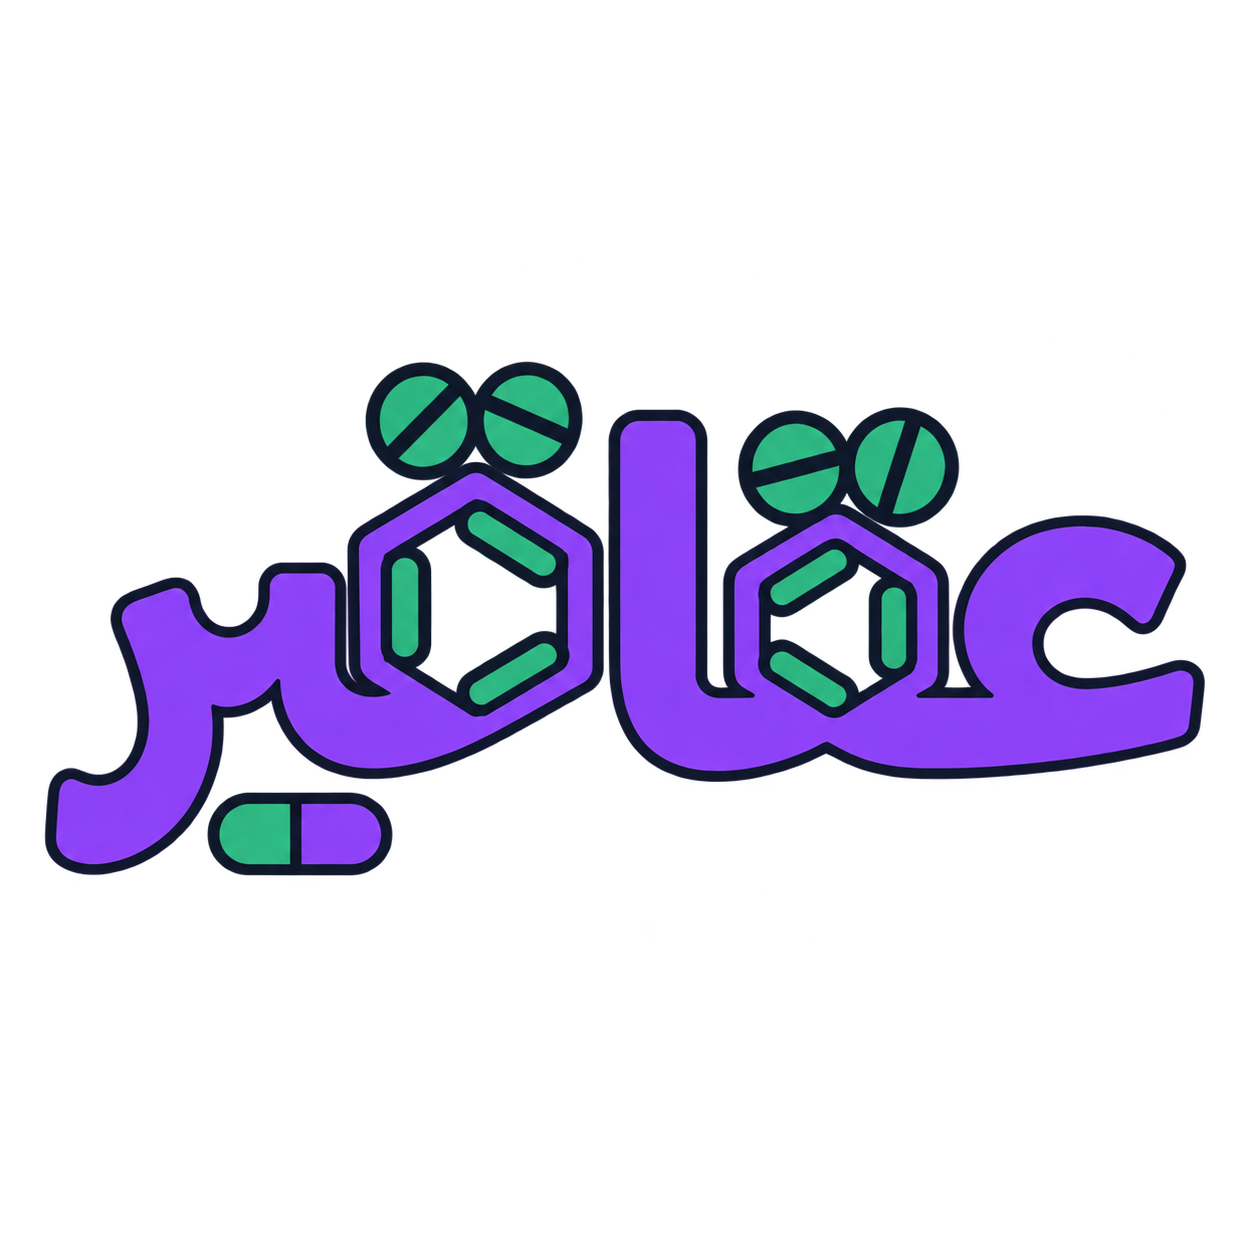
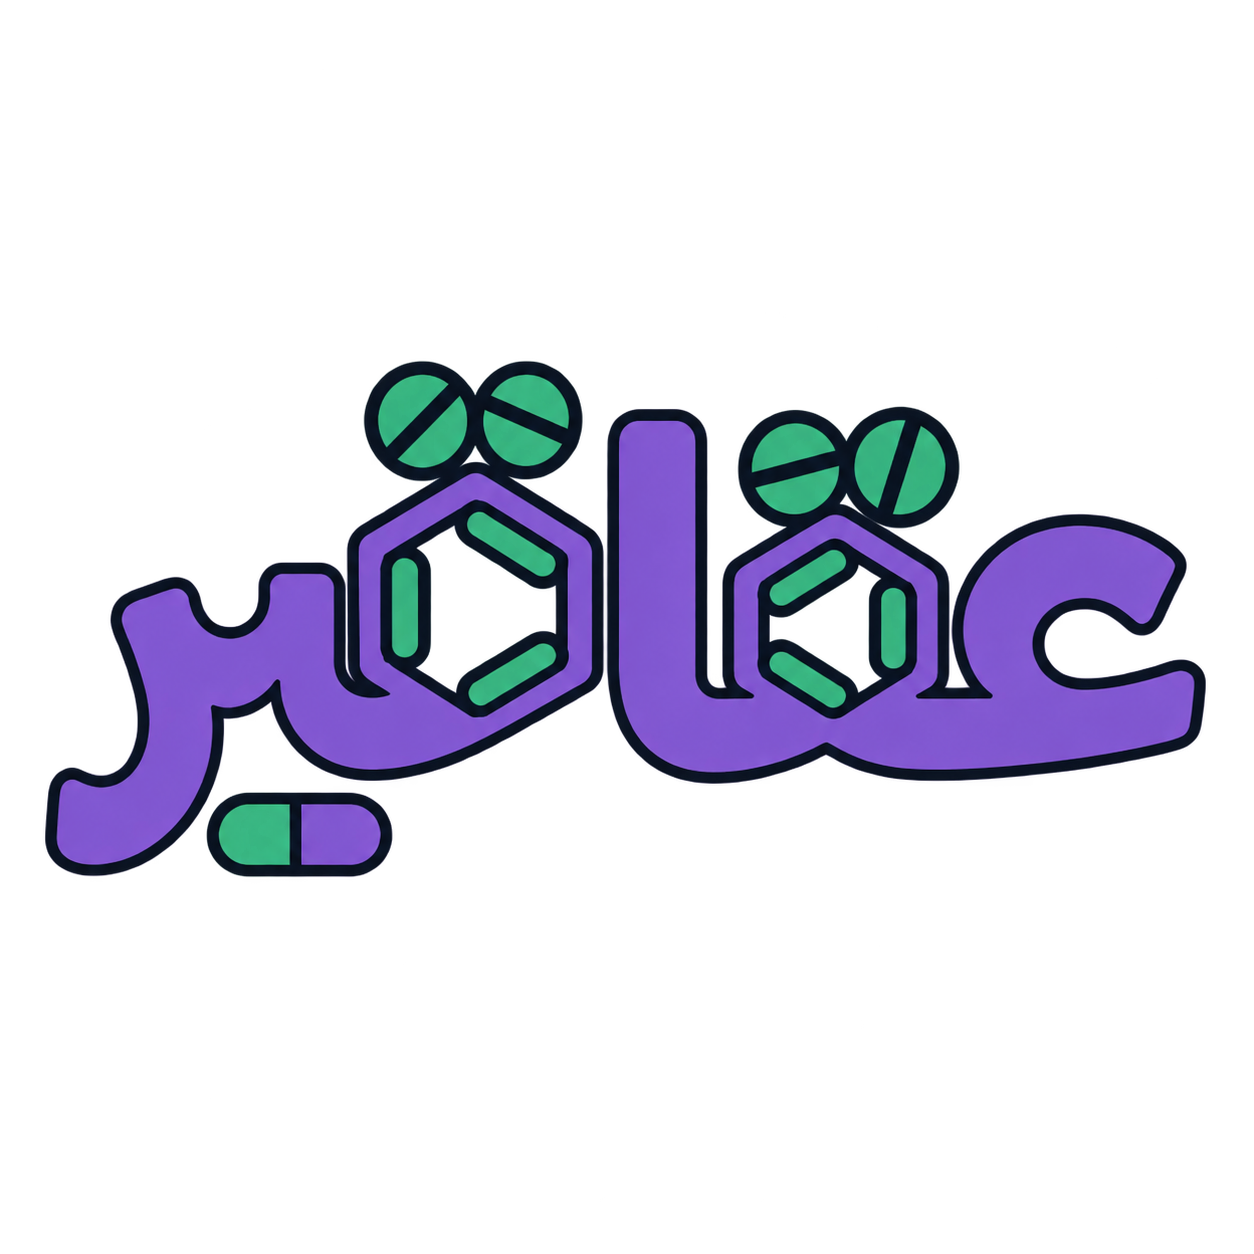
feat: update launcher artwork to matte violet finish and revise branding documentation

Changed region(s): [[0.0311, 0.311, 0.9641, 0.7153], [0.311, 0.2799, 0.3421, 0.311], [0.2799, 0.311, 0.311, 0.3421]]

diff --git a/assets/branding/launcher-revision.md b/assets/branding/launcher-revision.md
@@ -4,9 +4,11 @@ The selected masters and prompts are retained here. [Branding](../../docs/brandi
 
 ## Current launcher and splash — 2026-11-23
 
-Built-in imagegen edited the previous [violet and emerald master](aqaqeer-icon-violet-emerald.png) using the [exact selected edit prompt](launcher-calm-emerald-prompt.txt). The [selected result](aqaqeer-launcher-calm-emerald.png) targets #20BA82 with tonal variation and widens the tablet score lines and ring bonds. It retains the visible Arabic wordmark, the complementary bond orientations and the closed capsule. The generated edit retains the framing approximately.
+Built-in imagegen softened the violet fill in the previous launcher artwork using the [exact matte edit prompt](launcher-matte-violet-prompt.txt). The [selected result](aqaqeer-launcher-calm-emerald.png) targets #8054DA. It retains the visible Arabic wordmark, wider tablet scores and ring bonds, complementary bond orientations and closed capsule. The generated edit has slight variations in emerald and framing.
 
[2 lines of base64/hex data omitted]
+
[1 lines of base64/hex data omitted]
 
 ## Current in-app and PDF emblem — 2026-11-23
 

diff --git a/docs/validation.md b/docs/validation.md
@@ -170,7 +170,7 @@ Evidence applies to the recorded source revision and environment. A later source
 
 At base `a0dbc94`, static palette checks confirmed greater Violet–Blue hue separation in light and dark mode and higher Rose saturation. Checked text and selection pairs for the two revised accents measured at least 5.92:1. Android rendering remains unverified.
 
-At base `db1ec06`, the revised launcher/splash PNG was reviewed at 190 px on light, dark and AMOLED backgrounds and at 32 and 48 px including a colored wallpaper sample. Source checks covered artwork transparency, master/package equality, the shared launcher and splash references, and the retained in-app and PDF asset. Android rendering and launch continuity remain unverified. [Artwork provenance](../assets/branding/launcher-revision.md).
+At base `db1ec06`, the revised launcher/splash PNG was reviewed at 190 px on light, dark and AMOLED backgrounds and at 32 and 48 px including a colored wallpaper sample. Source checks covered artwork transparency, master/package equality, the shared launcher and splash references, and the retained in-app and PDF asset. At base `c89025f`, the matte violet revision was checked for color, framing, transparency and byte equality with the packaged launcher bitmap. Android rendering and launch continuity remain unverified. [Artwork provenance](../assets/branding/launcher-revision.md).
 
 Remaining scope and activity stops are in [plan](plan.md); [verification scope](test-coverage.md) separates source selections, automated results and human acceptance. Historical receipts and original failures are preserved below.
 

diff --git a/docs/branding.md b/docs/branding.md
@@ -1,6 +1,6 @@
 # Branding
 
-The [launcher and splash artwork](../assets/branding/aqaqeer-launcher-calm-emerald.png) keeps the electric violet Arabic wordmark and navy outlines. Its calmer emerald targets #20BA82 on the tablet dots, ring bonds and green half of the capsule. Wider ring bonds and tablet score lines help those details read at small sizes. The two rings retain their complementary bond orientations. The normal and round launcher icons and both splash stages use the same [transparent, non-adaptive bitmap](../app/src/main/res/drawable-nodpi/aqaqeer_launcher.png). The [in-app and PDF emblem](../app/src/main/res/drawable-nodpi/aqaqeer_logo.png) uses the original artwork. [Generation provenance and prompt](../assets/branding/launcher-revision.md).
+The [launcher and splash artwork](../assets/branding/aqaqeer-launcher-calm-emerald.png) uses a matte violet fill targeting #8054DA for the Arabic wordmark and keeps the navy outlines. Its calmer emerald targets #20BA82 on the tablet dots, ring bonds and green half of the capsule. Wider ring bonds and tablet score lines help those details read at small sizes. The two rings retain their complementary bond orientations. The normal and round launcher icons and both splash stages use the same [transparent, non-adaptive bitmap](../app/src/main/res/drawable-nodpi/aqaqeer_launcher.png). The [in-app and PDF emblem](../app/src/main/res/drawable-nodpi/aqaqeer_logo.png) uses the original artwork. [Generation provenance and prompt](../assets/branding/launcher-revision.md).
 
 ## Splash artwork and motion
 

diff --git a/docs/requirements.md b/docs/requirements.md
@@ -371,7 +371,7 @@ Use the existing vector capsule in the empty wide-screen detail pane, preserving
 
 ### Branding and startup
 
-Use the same electric violet artwork for the launcher and splash, with a calmer emerald target of #20BA82 and thicker tablet score lines and ring bonds. Retain the Arabic wordmark, complementary bond orientations and outlined capsule. The launcher remains a transparent RGBA bitmap without a backing shape or monochrome or adaptive layers. In-app branding and PDF headers use the original violet and emerald emblem.
+Use the same matte violet artwork for the launcher and splash, with a violet target of #8054DA, a calmer emerald target of #20BA82 and thicker tablet score lines and ring bonds. Retain the Arabic wordmark, complementary bond orientations and outlined capsule. The launcher remains a transparent RGBA bitmap without a backing shape or monochrome or adaptive layers. In-app branding and PDF headers use the original violet and emerald emblem.
 
 The first ring in Arabic reading order (right) uses the alternate three internal-bond sides to the left ring; this orientation is fixed artwork, not rotation animation. Home shows the pharmacy name with a small original emblem; onboarding includes the original emblem and prioritizes joining over creating. Medication-detail titles use the scientific name. See [branding](branding.md).
 
